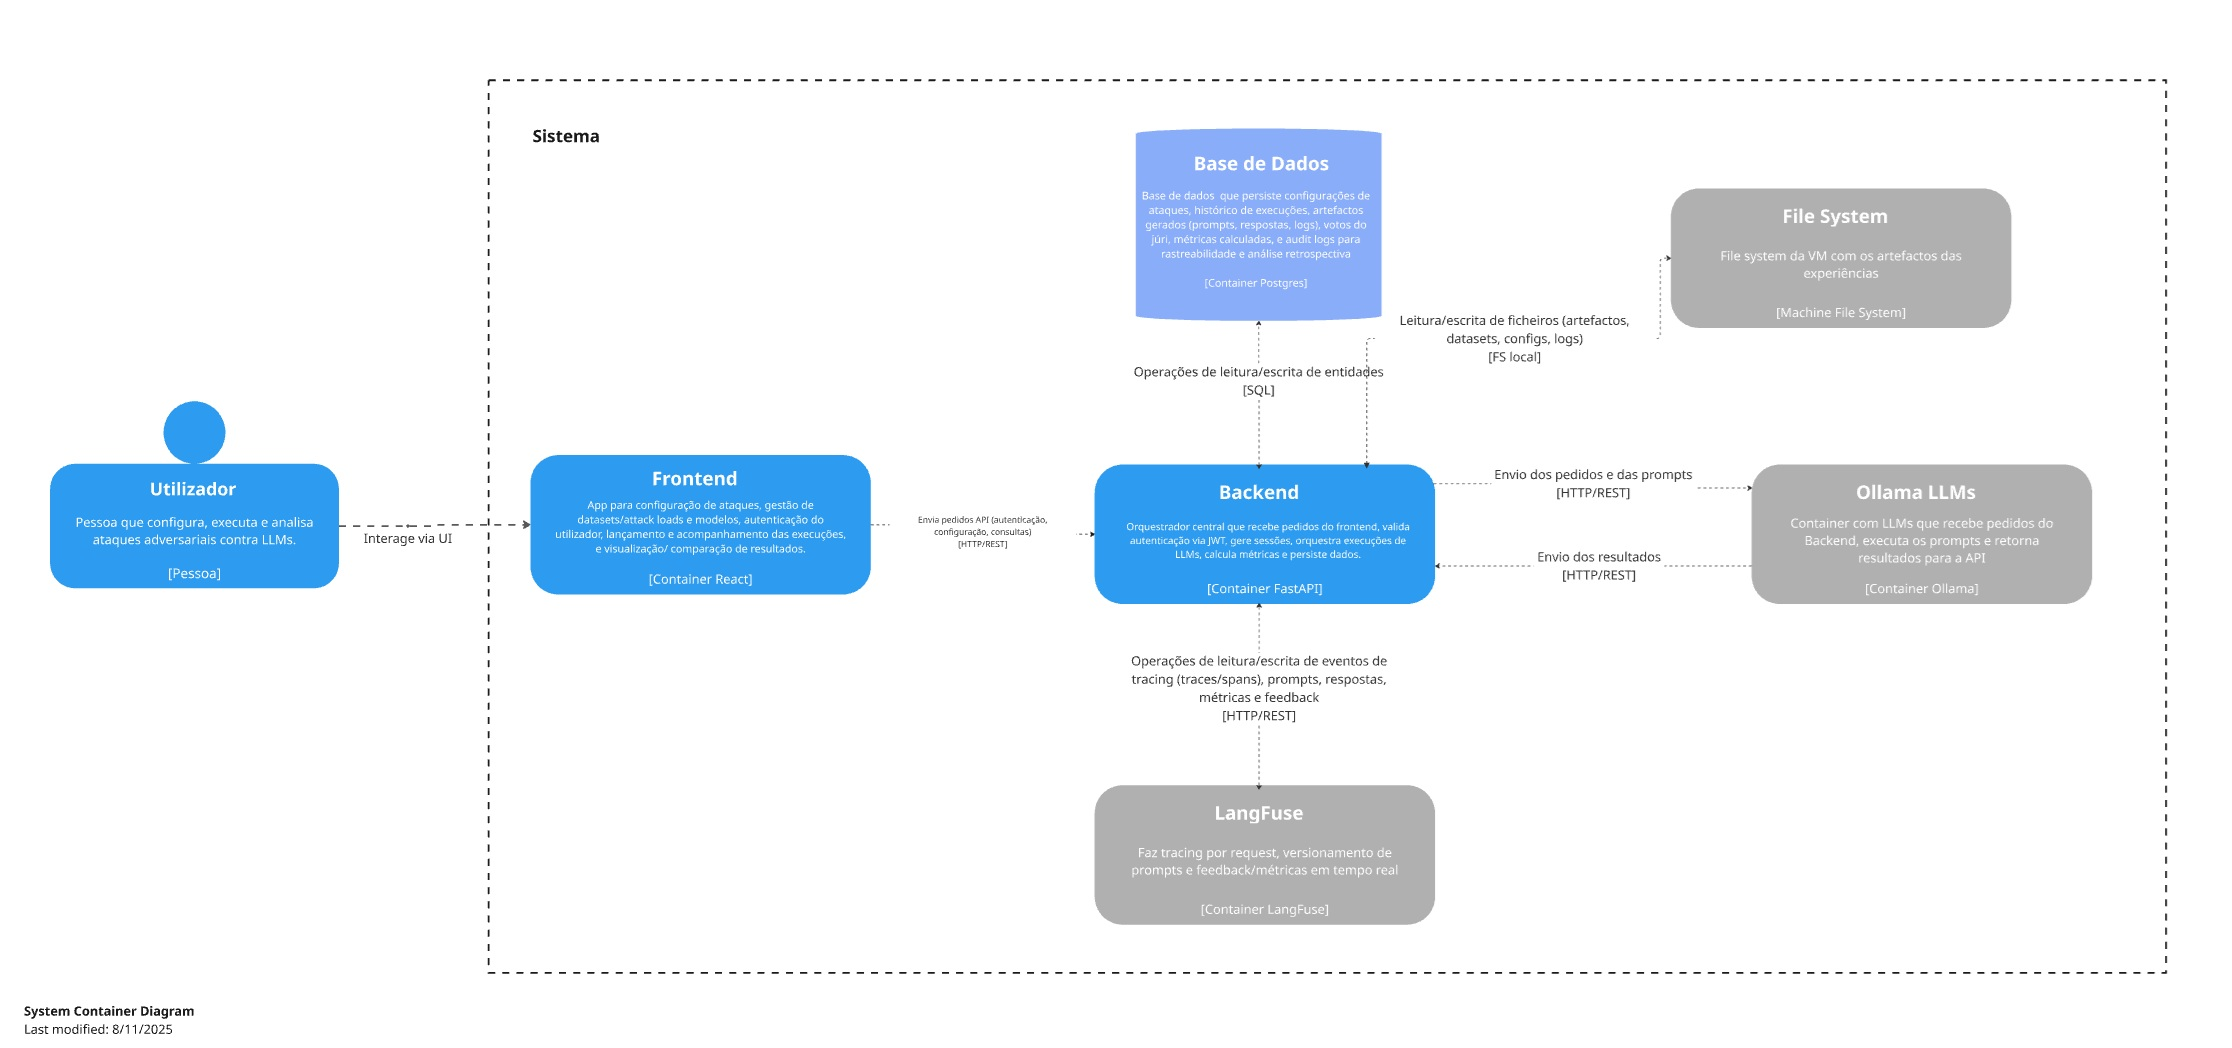
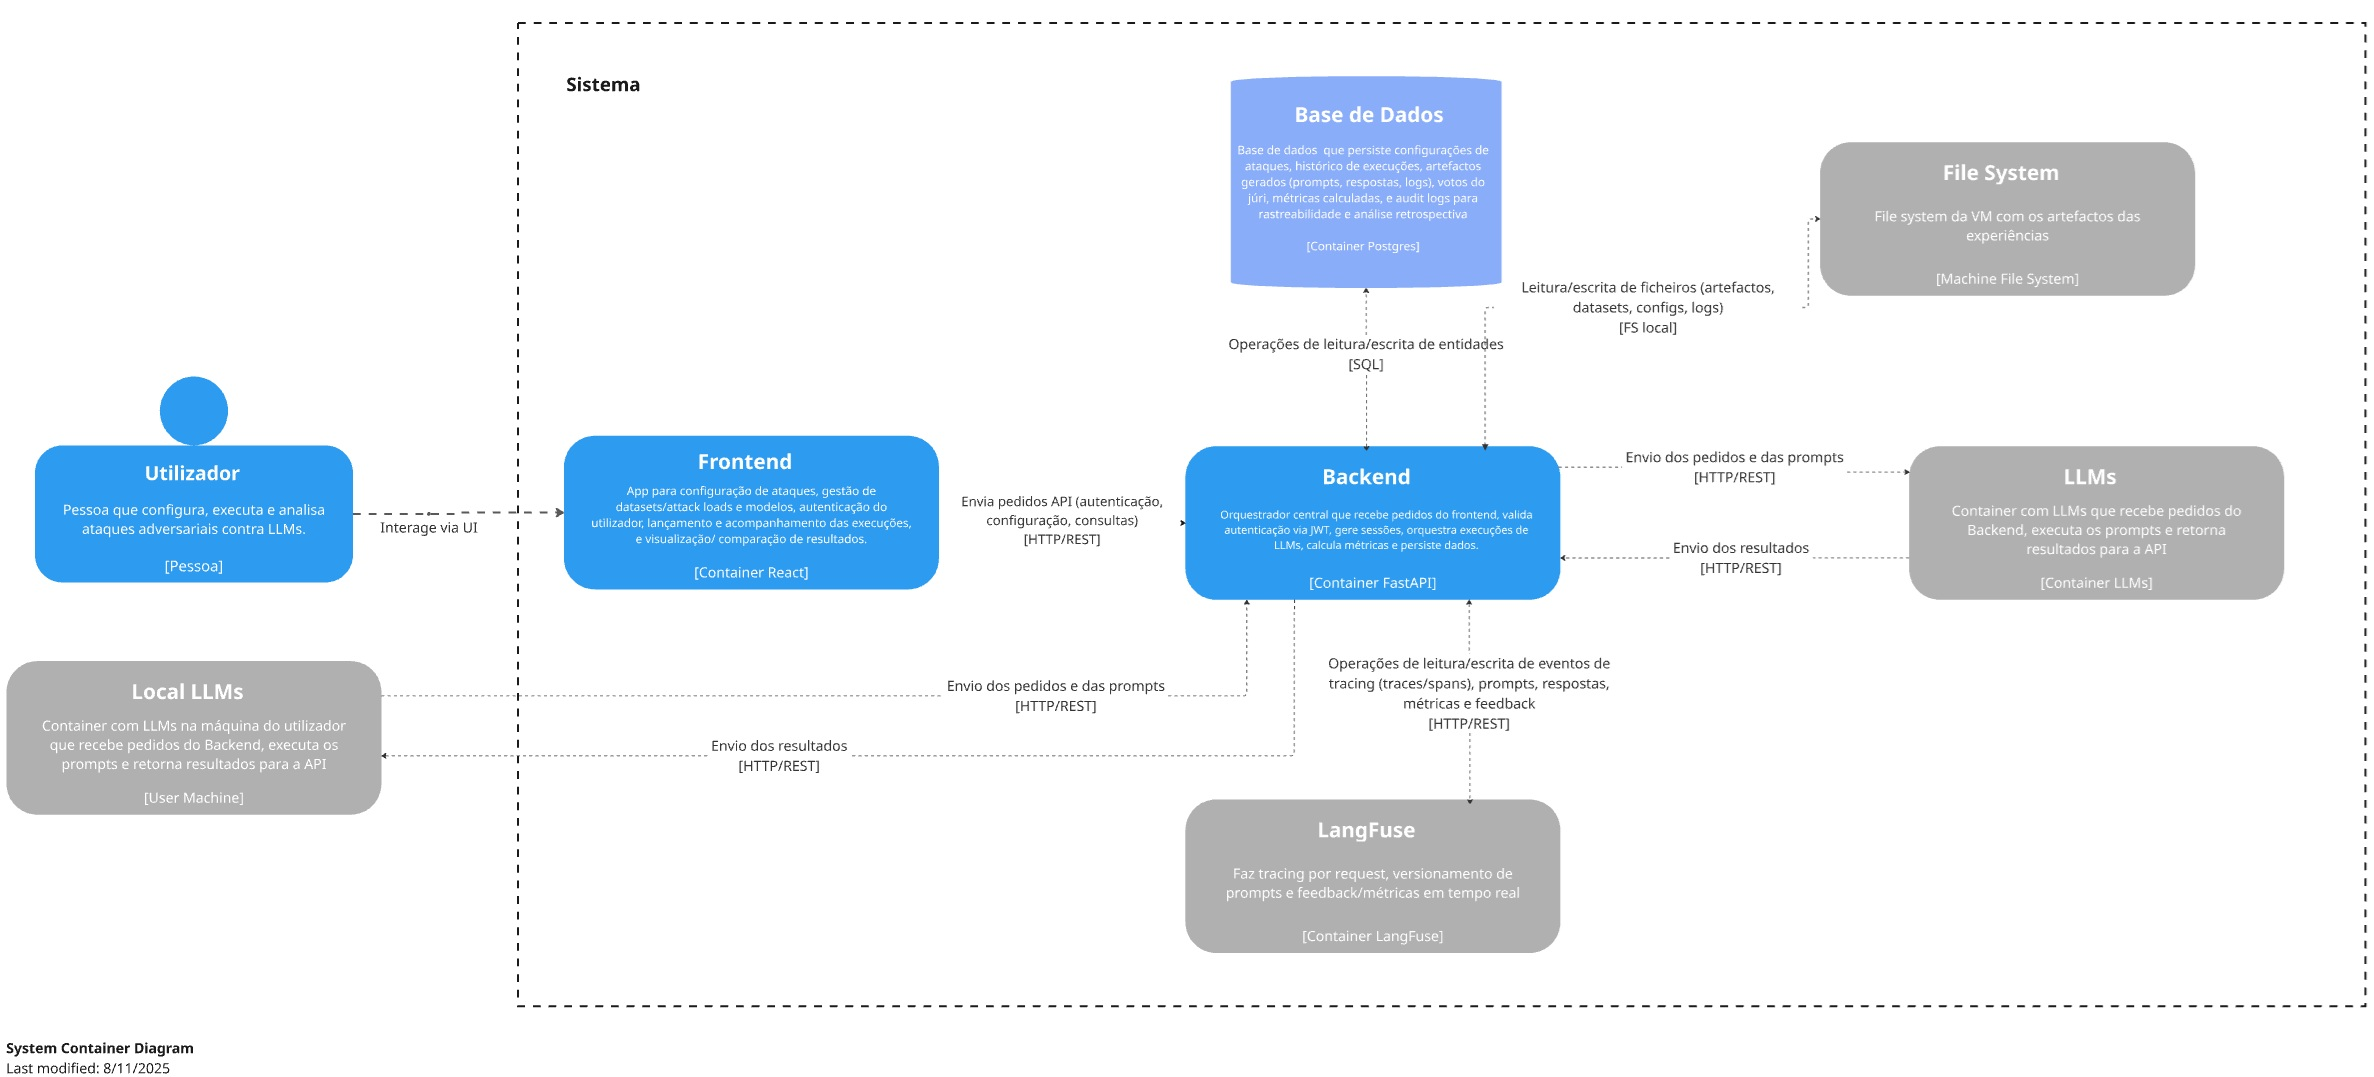
Changed Architecture to include local user llm logic

diff --git a/docs/srs/chapters/4_system_architecture/0_system_architecture.tex b/docs/srs/chapters/4_system_architecture/0_system_architecture.tex
@@ -6,7 +6,7 @@
     \item Optámos por utilizar FastAPI no backend porque oferece elevada performance e concorrência assíncrona, essenciais para servir LLMs a múltiplos utilizadores com baixa latência e throughput consistente. Além disso, a integração nativa com Python e documentação automática OpenAPI aceleram o desenvolvimento e reduzem erros, alinhando-se com a experiência atual da equipa.
     \item Optámos por uma base de dados relacional para guardar dados de utilizadores e das experiências porque nos dá controlo total do esquema e das relações, consultas flexíveis e consistência transacional, ao contrário de usar o MLflow como repositório principal, que não oferece a mesma liberdade para modelar a informação da aplicação , como uma flag “público/privado” por ataque, que exige controlo granular da estrutura das tabelas, chaves e restrições ao nível do esquema. No MLFlow estariamos restringidos ao formato por eles oferecido.
     \item Optámos por utilizar Langfuse como plataforma de observabilidade e rastreamento de LLMs porque é uma ferramenta open-source amplamente adotada no mercado, oferecendo tracing completo. Ao contrário de alternativas como LangSmith (fechado, pago para self-hosting), Langfuse é production-ready, framework-agnostic e fácil de dar self-host sem restrições ou custos recorrentes. Além disso, integra-se nativamente com Python e FastAPI, alinhando-se com o stack atual.
-    \item Optámos por usar um único container para cada toda a execução dos modelos (Attacker, Target e Juri) uma vez que o Ollama (ferramenta que permite executar vários modelos através de chamadas à API) faz a gestão de pedidos concorrentes com uma fila.
+    \item Optámos por usar um único container para a execução dos modelos (Attacker, Target e Juri). Podem correr tanto no Ollama ou podem ser chamadas APIs externas (OpenAPI, entre outras). Para além disso, a execução de testes em modelos hospedados na máquina do utilizador também é permitida.
     \item Optámos por utilizar uma base de dados PostgreSQL porque a equipa de desenvolvimento já está habituada à sua utilização e esta solução responde melhor aos requisitos de uma aplicação multi user, oferecendo robustez e controlo de acessos simultâneos.
 \end{itemize}
 \subsection{Nível 1 - Contexto do Sistema}
@@ -62,9 +62,14 @@ Toda a comunicação externa ocorre via HTTP/REST, garantindo interoperabilidade
 Responsável por persistir informação crítica do sistema, incluindo configurações de ataques, datasets, histórico de execuções, prompts, respostas, métricas, votos do júri e \textit{audit logs}.
 A interação com o \textit{Backend} ocorre através de operações SQL diretas, garantindo consistência transacional e rastreabilidade total das experiências.
 
-\subsubsection{Ollama LLMs \textit{(Container Ollama)}}
-Componente dedicado à execução dos modelos de linguagem (LLMs). Recebe pedidos do \textit{Backend}, executa os prompts e devolve as respostas correspondentes via HTTP/REST.
-O mesmo container aloja modelos com papéis diferents (LLM gerador de ataques, LLM alvo e júris) configurados de forma independente.
+\subsubsection{LLMs \textit{(Container LLMs)}}
+Componente dedicado à execução dos modelos de linguagem (LLMs) via Ollama ou via API. Recebe pedidos do \textit{Backend}, executa os prompts e devolve as respostas correspondentes via HTTP/REST.
+O mesmo container aloja modelos ou redireciona pedidos para modelos externos.
+A comunicação bidirecional com o \textit{Backend} permite enviar pedidos e receber resultados para posterior armazenamento e análise.
+
+\subsubsection{LLMs \textit{(Local LLMs)}}
+Componente dedicado à execução dos modelos de linguagem (LLMs) presentes na máquina local do utilizador. Recebe pedidos do \textit{Backend}, executa os prompts e devolve as respostas correspondentes via HTTP/REST.
+A máquina do utilizador aloja modelos que são executados localmente pelo utilizador e recebe/envia os pedidos/resultados para o \textit{Backend}.
 A comunicação bidirecional com o \textit{Backend} permite enviar pedidos e receber resultados para posterior armazenamento e análise.
 
 \subsubsection{File System \textit{(FS local)}}
@@ -101,7 +106,7 @@ A Figura~\ref{fig:diagrama_componentes} detalha a decomposição interna do cont
   \label{fig:diagrama_componentes}
 \end{figure}
 
-O nível 3 do modelo C4 foca-se exclusivamente na arquitetura interna do \textit{Backend}, uma vez que os restantes containers (Frontend, Base de Dados, Ollama LLMs, File System e LangFuse) mantêm-se como unidades coesas sem necessidade de decomposição adicional nesta fase.
+O nível 3 do modelo C4 foca-se exclusivamente na arquitetura interna do \textit{Backend}, uma vez que os restantes containers (Frontend, Base de Dados, LLMs,File System e LangFuse) mantêm-se como unidades coesas sem necessidade de decomposição adicional nesta fase.
 
 \subsubsection{Backend (Container FastAPI) - Componentes}
 O Backend decompõe-se em múltiplos componentes especializados, organizados em camadas funcionais:
@@ -118,8 +123,8 @@ O Backend decompõe-se em múltiplos componentes especializados, organizados em 
 \paragraph{Camada de Serviços de Orquestração}
 
 \begin{itemize}
-\item \textbf{Attack Orchestration Service}: Serviço especializado que coordena a sequência de ataques adversariais. Solicita ao \textit{Ollama LLMs} que execute o modelo gerador de ataques, armazena respostas intermédias, coordena os pares ataque-resposta entre o LLM alvo e encaminha para o \textit{Evaluation Service}. Envia eventos de rastreamento ao \textit{LangFuse} em tempo real.
-\item \textbf{Evaluation Service}: Componente que calcula métricas com base nos resultados dos júris. Solicita ao \textit{Ollama LLMs} a execução de um ou múltiplos modelos júri para cada par ataque-resposta, recolhe votos, calcula métricas agregadas (taxa de sucesso, robustez) e armazena resultados através do \textit{Data Repository}. Comunica com o \textit{LangFuse} para registar feedback e métricas de avaliação.
+\item \textbf{Attack Orchestration Service}: Serviço especializado que coordena a sequência de ataques adversariais. Solicita ao container \textit{LLMs} ou às LLMs na máquina do utilizador que execute o modelo gerador de ataques, armazena respostas intermédias, coordena os pares ataque-resposta entre o LLM alvo e encaminha para o \textit{Evaluation Service}. Envia eventos de rastreamento ao \textit{LangFuse} em tempo real.
+\item \textbf{Evaluation Service}: Componente que calcula métricas com base nos resultados dos júris. Solicita ao container \textit{LLMs} ou às LLMs na máquina do utilizador a execução de um ou múltiplos modelos júri para cada par ataque-resposta, recolhe votos, calcula métricas agregadas (taxa de sucesso, robustez) e armazena resultados através do \textit{Data Repository}. Comunica com o \textit{LangFuse} para registar feedback e métricas de avaliação.
 \end{itemize}
 
 \paragraph{Camada de Persistência e Armazenamento}
@@ -138,10 +143,10 @@ Os principais fluxos de interação no Backend são:
 O \textit{Frontend} envia credenciais ao \textit{Auth API}, que valida com a \textit{Base de Dados} (via \textit{Data Repository}), emite um JWT e devolve ao \textit{Frontend}. O \textit{Security API} valida o JWT em pedidos subsequentes.
 
 \item \textbf{Fluxo de Execução}: 
-O \textit{Run API} recebe um pedido de execução e a configuração, invoca o \textit{Attack Orchestration Service} para gerar ataques (comunicando com \textit{Ollama LLMs}), coordena respostas do LLM alvo e encaminha pares para o \textit{Evaluation Service}. Resultados são persistidos no \textit{Data Repository} e rastreados no \textit{LangFuse}.
+O \textit{Run API} recebe um pedido de execução e a configuração, invoca o \textit{Attack Orchestration Service} para gerar ataques (comunicando com o container \textit{LLMs} ou com as LLMs na máquina do utilizador ), coordena respostas do LLM alvo e encaminha pares para o \textit{Evaluation Service}. Resultados são persistidos no \textit{Data Repository} e rastreados no \textit{LangFuse}.
 
 \item \textbf{Fluxo de Avaliação}: 
-O \textit{Attack Orchestration Service} solicita ao \textit{Ollama LLMs} a execução de modelos júri, recolhe votos, e envia para o \textit{Evaluation Service} que calcula métricas agregadas e persiste no \textit{Data Repository}. Envia feedback estruturado ao \textit{LangFuse} para análise retrospetiva.
+O \textit{Attack Orchestration Service} solicita ao container \textit{LLMs} ou às LLMs na máquina do utilizador a execução de modelos júri, recolhe votos, e envia para o \textit{Evaluation Service} que calcula métricas agregadas e persiste no \textit{Data Repository}. Envia feedback estruturado ao \textit{LangFuse} para análise retrospetiva.
 
 \item \textbf{Fluxo de Consulta de Resultados}: 
 O \textit{Results API} processa pedidos do \textit{Frontend}, consulta o \textit{Data Repository} para recuperar execuções, métricas e histórico, e devolve dados formatados.
